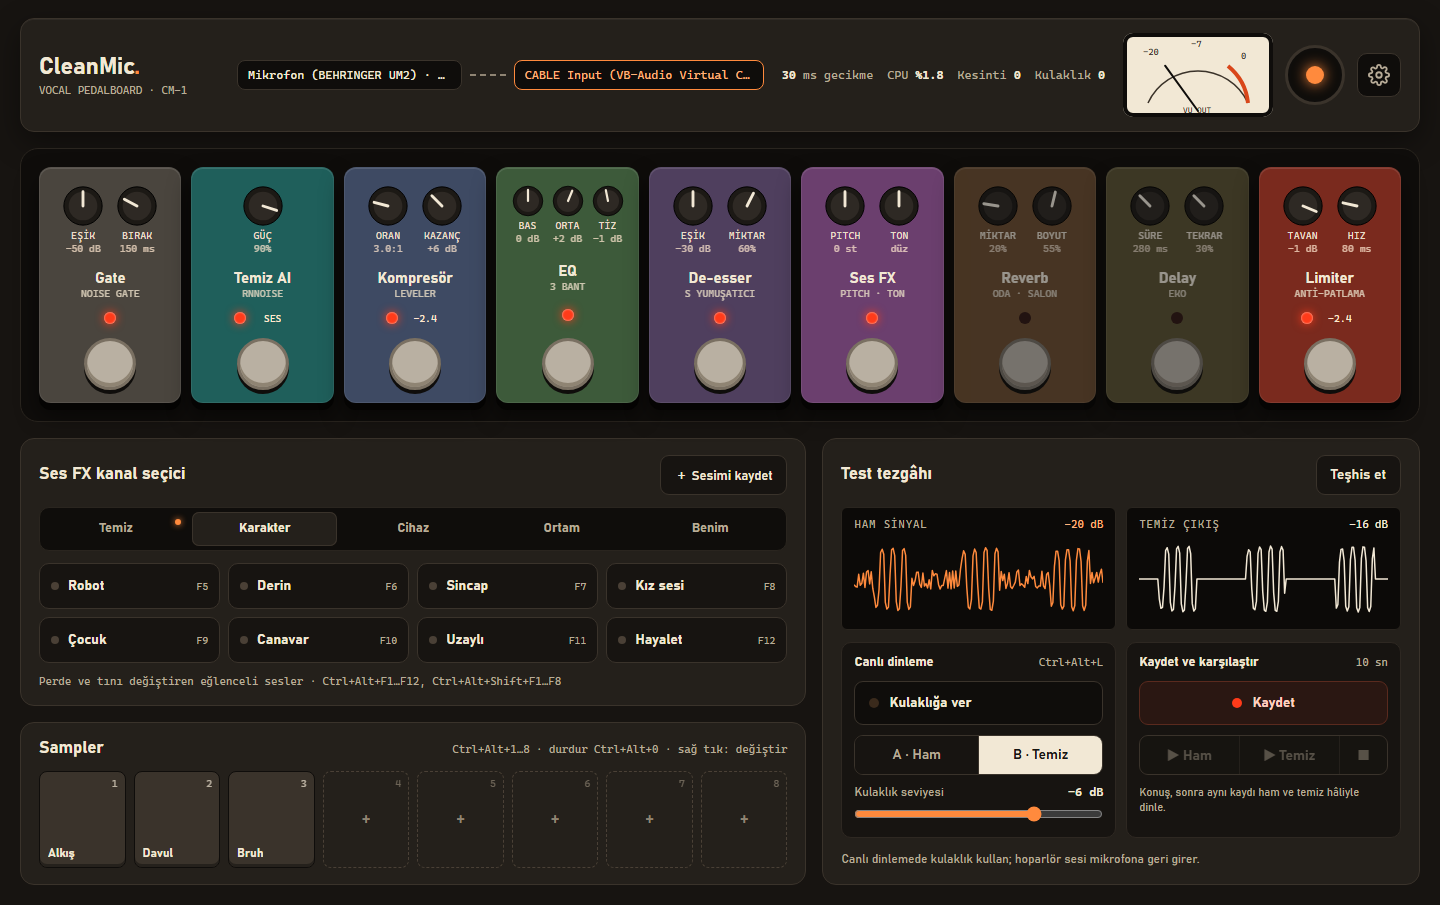
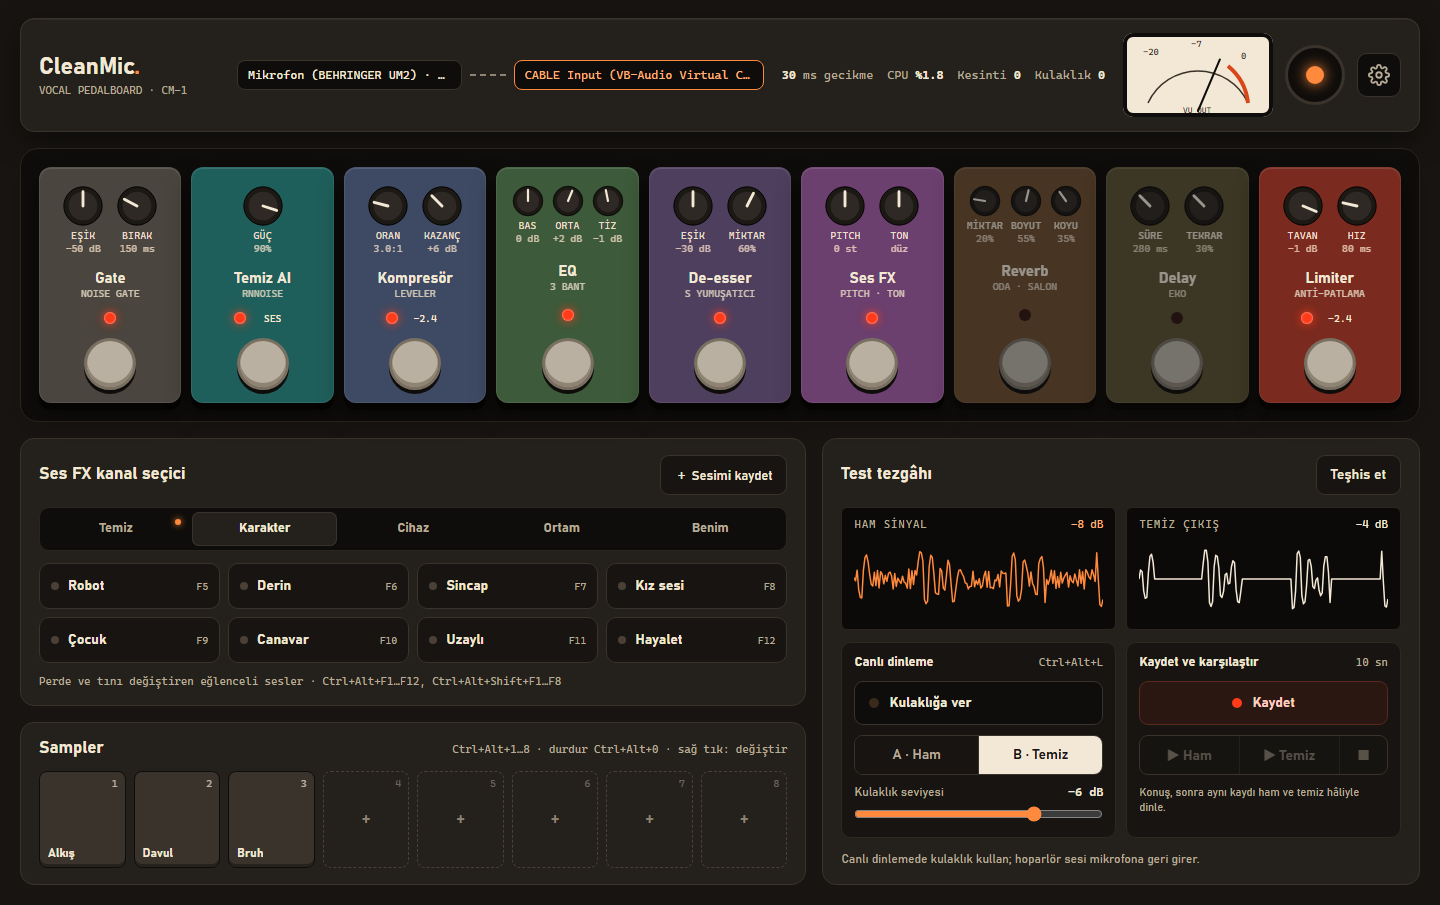
Yayın hazırlığı: CHANGELOG, README güncellemesi, yeni ekran görüntüleri
README: VAD'lı gate, reverb koyuluğu/ön gecikmesi, mekân modu karakterleri, konuşma sonu kuyruğu önlemi ve testler. Ekran görüntüleri üç düğmeli Reverb pedalı ve mod sekmeleriyle yenilendi.

Changed region(s): [[0.5938, 0.5878, 0.9688, 0.6807], [0.6562, 0.1856, 0.75, 0.3403], [0.8125, 0.0928, 0.8438, 0.1238]]

diff --git a/README.md b/README.md
@@ -71,13 +71,13 @@ Düğmeleri **yukarı/aşağı sürükleyerek** çevir (Shift = ince ayar), **fa
 
 | Pedal | Ne yapar | Düğmeler |
 | --- | --- | --- |
-| **Gate** | Konuşmadığında mikrofonu tamamen susturur. | Eşik, bırakma süresi |
+| **Gate** | Konuşmadığında mikrofonu tamamen susturur. RNNoise'un ses algılamasına bağlıdır: cümle bitince 25 ms'de kapanır, kelime aralarında yumuşak kalır. | Eşik, bırakma süresi |
 | **Temiz AI** | RNNoise yapay zekâsıyla fan, klavye, oda uğultusu ve cızırtıyı siler. "SES" ışığı konuştuğunu algıladığını gösterir. | Güç |
 | **Kompresör** | Fısıltı ile bağırış arasındaki farkı azaltır, sesi toparlar. | Oran, kazanç |
 | **EQ** | 3 bant ton ayarı: bas (150 Hz), orta (1.5 kHz), tiz (6 kHz). | Bas, orta, tiz |
 | **De-esser** | Condenser mikrofonun keskin "s/ş" seslerini yumuşatır. | Eşik, miktar |
 | **Ses FX** | Seçili ses modunu uygular (perde, ton, distorsiyon, filtre…). | Pitch, ton |
-| **Reverb** | Oda / salon yankısı. | Miktar, boyut |
+| **Reverb** | Oda, salon, mağara yankısı. Boyut küçük odadan katedrale kadar; koyuluk taş/cam (parlak) ile halı/su (boğuk) arasında. | Miktar, boyut, koyuluk |
 | **Delay** | Eko. | Süre, tekrar |
 | **Limiter** | Sesin tavanı asla aşmasını engeller; bağırınca **patlama olmaz**. | Tavan, hız |
 
@@ -90,10 +90,10 @@ PITCH ve TON düğmeleriyle ince ayar yap.
 
 | Sekme | Modlar |
 | --- | --- |
-| **Temiz** | Doğal · **Stüdyo** (sıcak alt, parlak "hava", sıkı kompresör, hafif plate reverb) · **Yayıncı** (radyo DJ tokluğu) · **Podcast** (net, doğal) |
+| **Temiz** | Doğal · **Stüdyo** (sıcak alt, parlak "hava", sıkı kompresör, 25 ms ön gecikmeli ince plate reverb) · **Yayıncı** (radyo DJ tokluğu) · **Podcast** (net, doğal, kuru) |
 | **Karakter** | Robot · Derin · Sincap · Kız sesi · Çocuk · Canavar · Uzaylı · Hayalet |
 | **Cihaz** | Radyo (eski AM) · Telefon · Telsiz · Megafon |
-| **Ortam** | Mağara · Stadyum · Su altı · 8-bit |
+| **Ortam** | **Mağara** (uzun, koyu taş yankı + slapback) · **Stadyum** (yankı uzak tribünden 90 ms sonra döner) · **Su altı** (kısa, çok boğuk, dalgalı) · **8-bit** |
 | **Benim** | Kendi kaydettiğin modlar |
 
 **Kendi modunu kaydetmek:** Pedalları istediğin gibi ayarla → **＋ Sesimi kaydet** → isim ver.
@@ -173,6 +173,9 @@ Kısayollar oyun içindeyken de çalışır (global).
 - **Yumuşak geçişler:** kesinti olursa ses sertçe kesilmez, sönerek susar ve yumuşakça geri gelir.
   Pedal açma/kapama, sessize alma ve mod geçişleri de tıklamasızdır.
 - **İleri bakışlı limiter:** 2 ms önceden bakarak tepe değerleri yakalar; dijital kırpma olmaz.
+- **Konuşma sonu kuyruğu yok:** cümle bitince RNNoise'un sönen kalıntısı kompresörle yükseltilip
+  "pşşt" gibi duyulmasın diye gate yapay zekânın ses algılamasıyla 25 ms'de kapanır, kompresör de
+  -55 dB altını yükseltmek yerine kısar. Bu davranış otomatik testle korunur.
 - **Pro Audio önceliği:** ses thread'leri Windows MMCSS "Pro Audio" sınıfında çalışır; oyun CPU'yu
   doldursa bile ses zamanında işlenir.
 - Üst barda **Kesinti** (oyuna giden çıkış) ve **Kulaklık** sayaçları gerçek kesinti sayısını gösterir.
@@ -200,7 +203,10 @@ Gerekenler: Rust (MSVC toolchain; `rust-toolchain.toml` otomatik seçer), Node.j
 npm install
 npm run dev      # geliştirme (değişince yeniden derler)
 npm run build    # src-tauri\target\release\bundle\nsis\CleanMic_x.y.z_x64-setup.exe
+cd src-tauri; cargo test --release   # ses zinciri testleri (konuşma sonu kuyruğu, mekân reverb'leri)
 ```
+
+Sürüm geçmişi: [CHANGELOG.md](CHANGELOG.md)
 
 ```
 src-tauri/src/

diff --git a/CHANGELOG.md b/CHANGELOG.md
@@ -1,0 +1,29 @@
+# Değişiklik günlüğü
+
+## 0.2.3 — ilk yayın
+
+İlk dağıtılan sürüm. Windows 10/11 x64, [VB-Audio Virtual Cable](https://vb-audio.com/Cable/) gerektirir.
+
+### Ses
+- RNNoise yapay zekâsıyla gerçek zamanlı gürültü temizleme, 80 Hz uğultu filtresi
+- 9 pedal: Gate, Temiz AI, Kompresör, 3 bant EQ, De-esser, Ses FX, Reverb, Delay, Limiter
+- 20 ses modu 4 kategoride (Temiz, Karakter, Cihaz, Ortam) + kendi modlarını kaydetme,
+  yeniden adlandırma, güncelleme, silme
+- Stüdyo / Yayıncı / Podcast modları EQ ve kompresörü kendisi ayarlar; Stüdyo'da 25 ms ön
+  gecikmeli ince plate reverb
+- Mekân modlarında birbirinden ayrı reverb karakteri: boyut, koyuluk ve ön gecikme
+- Gate, RNNoise'un ses algılamasına bağlı: cümle sonunda elektronik "pşşt" kuyruğu yok
+- Kompresörde taban genişletmesi: sessizlikteki kalıntı yükseltilmez
+- Cızırtıya karşı: saat kayması telafisi, kendini ayarlayan tampon, yumuşak toparlanma,
+  ileri bakışlı limiter, Pro Audio thread önceliği
+
+### Araçlar
+- Test tezgâhı: canlı ham/temiz dalga formu, A/B canlı dinleme, 10 sn kaydet-karşılaştır
+- Teşhis sihirbazı: clipping, +48V, düşük seviye, gürültü, 50 Hz vınlama, 44.1 kHz, tampon
+  kesintisi tespiti ve tek tıkla uygulanan öneriler
+- 8 pad'li sampler (WAV, MP3, OGG, FLAC, M4A/AAC, AIFF), ducking, kulaklıkta çalma
+- Global kısayollar, sistem tepsisi, Windows ile başlatma
+
+### Kurulum
+- Türkçe kurulum sihirbazı, yönetici izni gerektirmez, Başlat menüsü ve isteğe bağlı masaüstü
+  kısayolu; VB-Cable yoksa uyarır ve indirme sayfasını açmayı teklif eder
